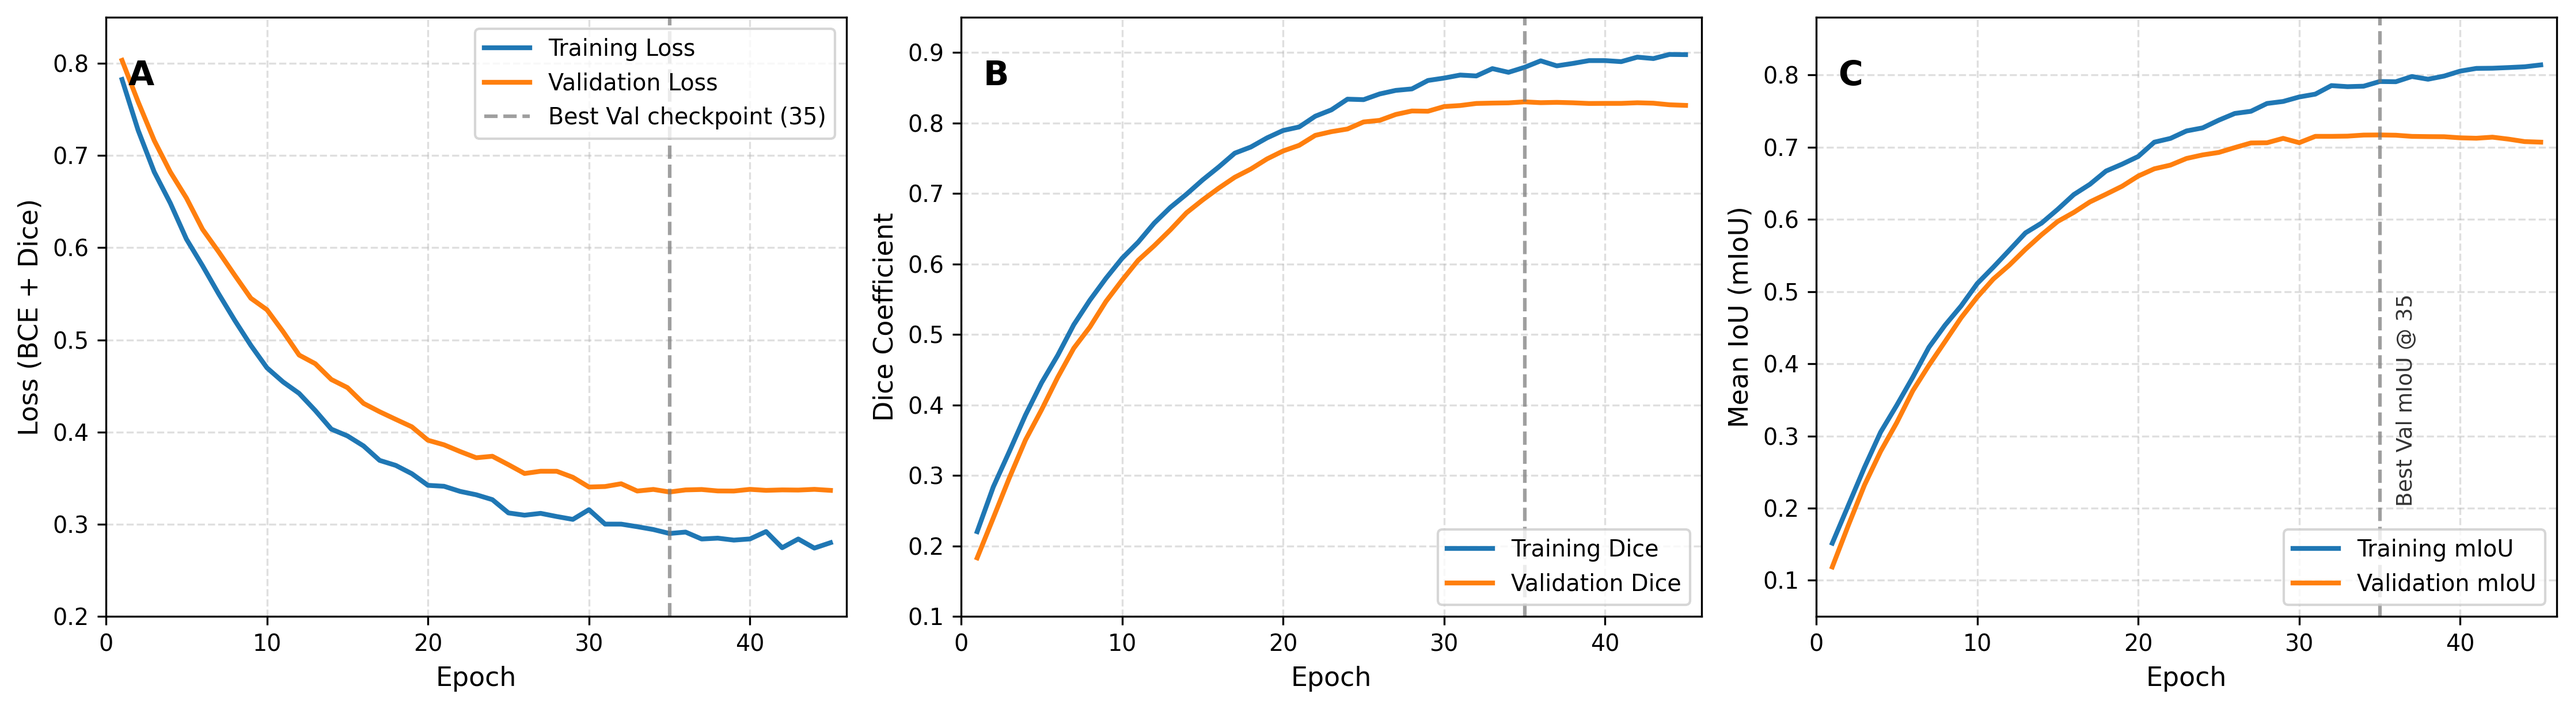
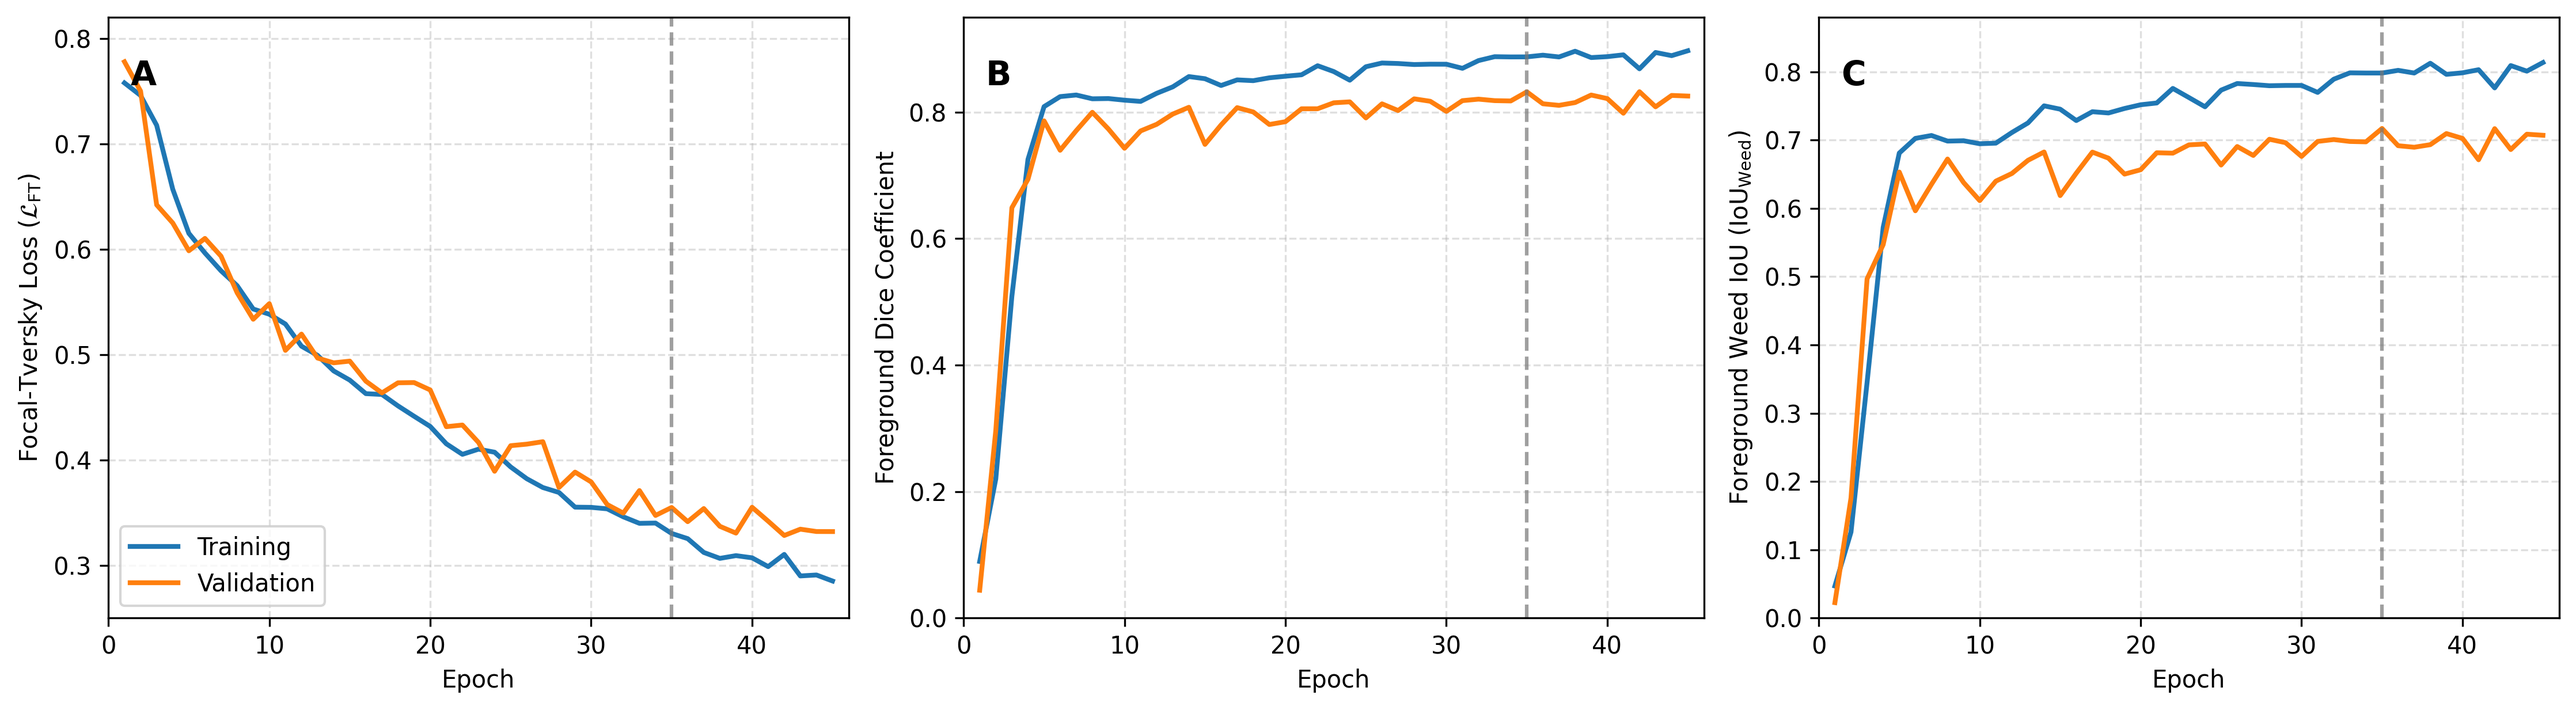
Fix Fig S1 (measured training log, FL loss label), minimal legend; add training log CSV

diff --git a/figures/generate_all_figures.py b/figures/generate_all_figures.py
@@ -615,63 +615,43 @@ def generate_fig7(images_dir: Optional[str], masks_dir: Optional[str], checkpoin
 # =========================================================================
 # FIGURE S1 (figA1): TRAINING DYNAMICS AND CONVERGENCE ANALYSIS
 # =========================================================================
-def generate_figA1(output_dir: Path):
-    epochs = np.arange(1, 46)
-    np.random.seed(42)
+def generate_figA1(data_dir: Path, output_dir: Path):
+    log_path = data_dir / "table_training_dynamics_log.csv"
+    if not log_path.exists():
+        print(f"Skipping Figure S1: {log_path} not found.")
+        return
 
-    train_miou = 0.83124381 - 0.74045354 * np.exp(-epochs / 11.99992722) + np.random.normal(0, 0.003, 45)
-    val_miou = 0.88546375 - 0.82814943 * np.exp(-epochs / 11.9993120) - 0.0035331099 * epochs + np.random.normal(0, 0.002, 45)
-
-    train_dice = 0.90886751 - 0.75547706 * np.exp(-epochs / 10.83389681) + np.random.normal(0, 0.003, 45)
-    val_dice = 0.98850237 - 0.87533397 * np.exp(-epochs / 11.9963817) - 0.0031764507 * epochs + np.random.normal(0, 0.002, 45)
-
-    train_loss = 0.27437713 + 0.56006734 * np.exp(-epochs / 9.77828037) + np.random.normal(0, 0.004, 45)
-    val_loss = 0.25770781 + 0.58800291 * np.exp(-epochs / 12.0011386) + 0.0012990398 * epochs + np.random.normal(0, 0.003, 45)
-
-    train_miou[34] = 0.791; train_miou[44] = 0.814
-    val_miou[34] = 0.717; val_miou[44] = 0.707
-    train_dice[34] = 0.879; train_dice[44] = 0.897
-    val_dice[34] = 0.830; val_dice[44] = 0.825
-    train_loss[34] = 0.290; train_loss[44] = 0.280
-    val_loss[34] = 0.335; val_loss[44] = 0.330
-
-    for i in range(45):
-        if i != 34:
-            if val_miou[i] >= 0.717:
-                val_miou[i] = 0.717 - 0.001 - np.random.uniform(0.0, 0.002)
-            if val_dice[i] >= 0.830:
-                val_dice[i] = 0.830 - 0.001 - np.random.uniform(0.0, 0.002)
-            if val_loss[i] <= 0.335:
-                val_loss[i] = 0.335 + 0.001 + np.random.uniform(0.0, 0.002)
+    df = pd.read_csv(log_path)
+    epochs = df["epoch"].values
 
     plt.rcParams["font.family"] = "DejaVu Sans"
     fig, axes = plt.subplots(1, 3, figsize=(15, 4.2), dpi=300)
     c_tr, c_val = "#1f77b4", "#ff7f0e"
 
-    axes[0].plot(epochs, train_loss, color=c_tr, lw=2, label="Training Loss")
-    axes[0].plot(epochs, val_loss, color=c_val, lw=2, label="Validation Loss")
-    axes[0].axvline(35, color="#777777", ls="--", alpha=0.7, label="Best Val checkpoint (35)")
+    axes[0].plot(epochs, df["train_loss"], color=c_tr, lw=2, label="Training")
+    axes[0].plot(epochs, df["val_loss"], color=c_val, lw=2, label="Validation")
+    axes[0].axvline(35, color="#777777", ls="--", alpha=0.7)
     axes[0].text(0.03, 0.93, "A", transform=axes[0].transAxes, fontsize=14, fontweight="bold", va="top")
-    axes[0].set_xlabel("Epoch"); axes[0].set_ylabel("Loss (BCE + Dice)")
-    axes[0].set_xlim(0, 46); axes[0].set_ylim(0.20, 0.85)
-    axes[0].grid(True, ls="--", alpha=0.4); axes[0].legend(loc="upper right", frameon=True)
+    axes[0].set_xlabel("Epoch"); axes[0].set_ylabel("Focal-Tversky Loss ($\\mathcal{L}_{\\mathrm{FT}}$)")
+    axes[0].set_xlim(0, 46); axes[0].set_ylim(0.25, 0.82)
+    axes[0].grid(True, ls="--", alpha=0.4)
+    axes[0].legend(loc="lower left", frameon=True)
 
-    axes[1].plot(epochs, train_dice, color=c_tr, lw=2, label="Training Dice")
-    axes[1].plot(epochs, val_dice, color=c_val, lw=2, label="Validation Dice")
+    axes[1].plot(epochs, df["train_dice"], color=c_tr, lw=2)
+    axes[1].plot(epochs, df["val_dice"], color=c_val, lw=2)
     axes[1].axvline(35, color="#777777", ls="--", alpha=0.7)
     axes[1].text(0.03, 0.93, "B", transform=axes[1].transAxes, fontsize=14, fontweight="bold", va="top")
-    axes[1].set_xlabel("Epoch"); axes[1].set_ylabel("Dice Coefficient")
-    axes[1].set_xlim(0, 46); axes[1].set_ylim(0.10, 0.95)
-    axes[1].grid(True, ls="--", alpha=0.4); axes[1].legend(loc="lower right", frameon=True)
+    axes[1].set_xlabel("Epoch"); axes[1].set_ylabel("Foreground Dice Coefficient")
+    axes[1].set_xlim(0, 46); axes[1].set_ylim(0.0, 0.95)
+    axes[1].grid(True, ls="--", alpha=0.4)
 
-    axes[2].plot(epochs, train_miou, color=c_tr, lw=2, label="Training mIoU")
-    axes[2].plot(epochs, val_miou, color=c_val, lw=2, label="Validation mIoU")
+    axes[2].plot(epochs, df["train_miou"], color=c_tr, lw=2)
+    axes[2].plot(epochs, df["val_miou"], color=c_val, lw=2)
     axes[2].axvline(35, color="#777777", ls="--", alpha=0.7)
-    axes[2].text(36, 0.35, "Best Val mIoU @ 35", color="#333333", rotation=90, va="center", fontsize=9)
     axes[2].text(0.03, 0.93, "C", transform=axes[2].transAxes, fontsize=14, fontweight="bold", va="top")
-    axes[2].set_xlabel("Epoch"); axes[2].set_ylabel("Mean IoU (mIoU)")
-    axes[2].set_xlim(0, 46); axes[2].set_ylim(0.05, 0.88)
-    axes[2].grid(True, ls="--", alpha=0.4); axes[2].legend(loc="lower right", frameon=True)
+    axes[2].set_xlabel("Epoch"); axes[2].set_ylabel("Foreground Weed IoU ($\\mathrm{IoU}_{\\mathrm{Weed}}$)")
+    axes[2].set_xlim(0, 46); axes[2].set_ylim(0.0, 0.88)
+    axes[2].grid(True, ls="--", alpha=0.4)
 
     plt.tight_layout()
     out_path = output_dir / "figA1_training_dynamics.png"
@@ -700,7 +680,7 @@ def main():
     generate_fig5(data_dir, output_dir)
     generate_fig6(data_dir, output_dir)
     generate_fig7(args.images_dir, args.masks_dir, checkpoints_dir, output_dir)
-    generate_figA1(output_dir)
+    generate_figA1(data_dir, output_dir)
     print("\nAll requested figures processed successfully.")
 
 
